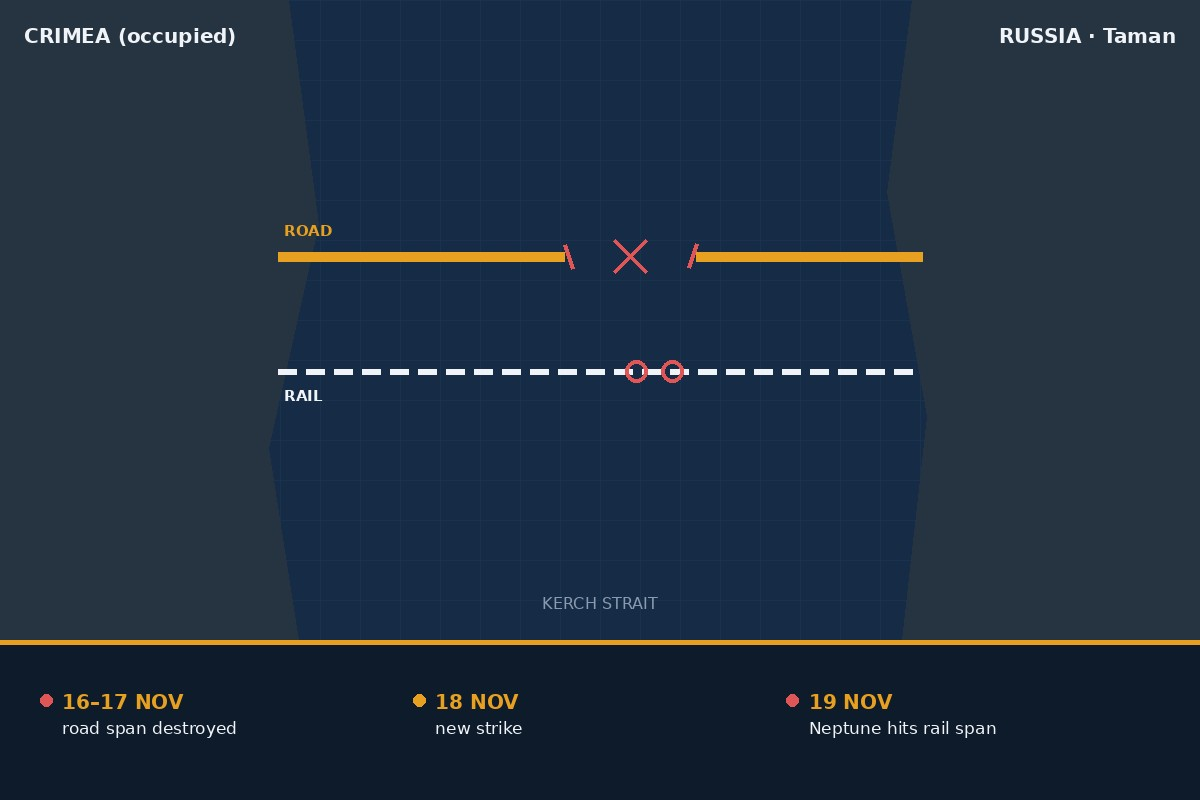
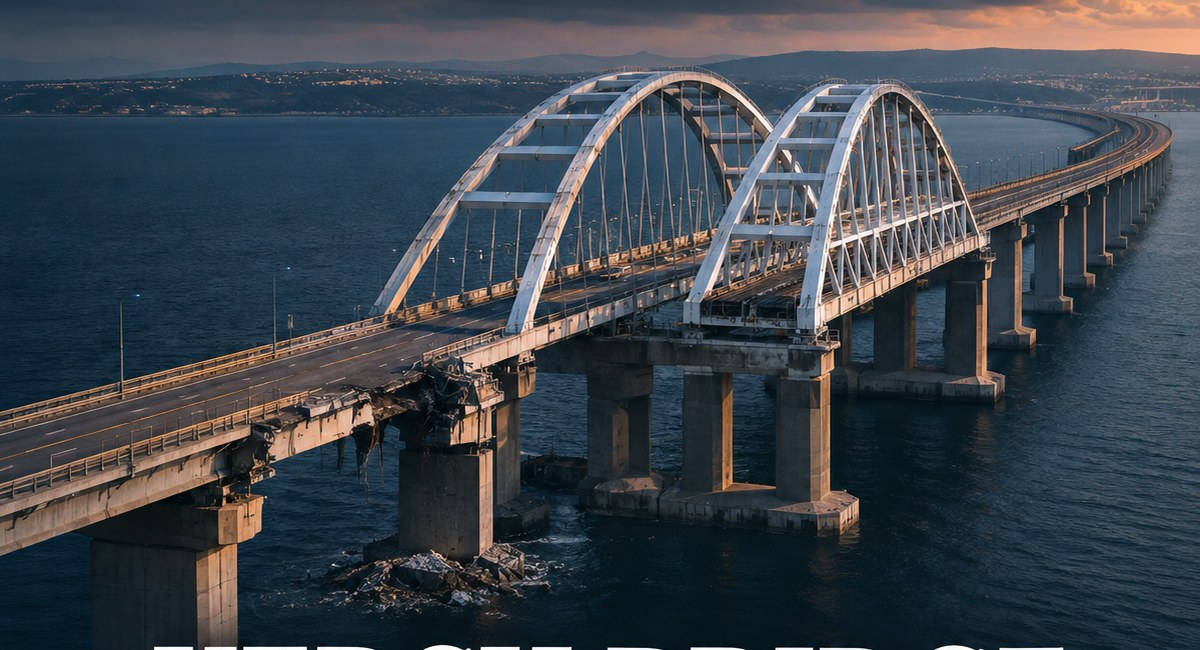
Brief #1: replace schematic with AI illustration (hero + posters)
Claude-Session: https://claude.ai/code/session_01R2kxsZSnZHXhT1PEu5Panu

diff --git a/kerch-bridge-strikes-november-2026.html b/kerch-bridge-strikes-november-2026.html
@@ -89,7 +89,8 @@ footer{padding:24px 48px;border-top:.5px solid var(--border);display:flex;justif
   </a>
   <a class="nav-back" href="index.html"><i class="ti ti-arrow-left"></i> <span id="h-back">Back to All Articles</span></a>
 </nav>
-<div class="hero-img"><img src="assets/kerch-brief-hero.jpg" alt="Schematic of the Kerch Bridge strikes, 16–19 November 2026"></div>
+<div class="hero-img"><img src="assets/kerch-brief-hero.jpg" alt="AI illustration of the damaged Kerch Bridge"></div>
+<p style="max-width:860px;margin:8px auto 0;padding:0 24px;font-size:11px;color:var(--muted);font-style:italic">AI-generated illustration.</p>
 <section class="hero">
   <div class="article-meta">
     <span class="meta-tag brief-tag">BRIEF</span>
